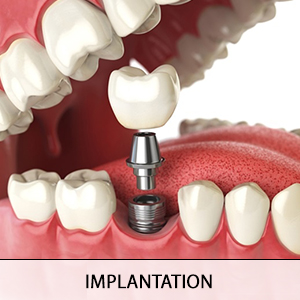
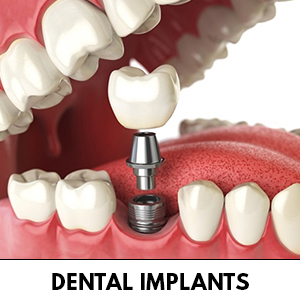
Add files via upload

Changed region(s): [[0.03, 0.84, 1.0, 1.0]]

diff --git a/index.html b/index.html
@@ -44,15 +44,15 @@
            <div class="dropdown-menu" aria-labelledby="navbarDropdown">
           <a class="dropdown-item" href="maxilofacial.html">Maxilofacial Trauma</a>
           <a class="dropdown-item" href="exclusivekidsdentistry.html">Exclusive Kids Dentistry</a>
-          <a class="dropdown-item" href="teethcleaning.html">Teeth Cleaning</a>
+          <a class="dropdown-item" href="teethcleaning.html">cosmetic Dentistry</a>
           <a class="dropdown-item" href="rct.html">RCT</a>
           <a class="dropdown-item" href="denture.html">Dentures</a>
-          <a class="dropdown-item" href="implantation.html">Implantation</a>
+          <a class="dropdown-item" href="implantation.html">Dental Implants</a>
           <a class="dropdown-item" href="toothwhitening.html">Tooth Whitening</a>
-          <a class="dropdown-item" href="orthodontic.html">Orthodontic</a>
+          <a class="dropdown-item" href="orthodontic.html">Orthodontics</a>
           <a class="dropdown-item" href="fpd&crowns.html">FPD & Crowns</a>
           <a class="dropdown-item" href="filling.html">Filling</a>
-          <a class="dropdown-item" href="cosmetic.html">Cosmetic Surgery</a>
+          <a class="dropdown-item" href="cosmetic.html">Cosmetic Plastic</a>
           <a class="dropdown-item" href="oralcanner.html">Oral Cancer</a>
         </div>
       </li>
@@ -305,7 +305,7 @@
          <img class="ft-link " src="linkedin.png" width="40" height="40" alt="logo">
 </a>
            </div>
-           <p style="color: #fff;">Salem-Mob:9626633645 | Ph:0427–4299645  | johnsdental@gmail.com | Mettur - Mob:9524533207 | Ph:04298–243645 </p>
+           <p style="color: #fff;">Salem-Mob:9626633645 | Ph:0427–4299645  | johnsdentalspeciality@gmail.com | Mettur - Mob:9524533207 | Ph:04298–243645 </p>
 
             <div class="row">
            <div class="col-12 col-sm-12 col-md-12 col-lg-12">
@@ -314,7 +314,7 @@
         </div>
                      <div class="row" style="background-color:#9a0000; " >
            <div class="col-12 col-sm-12 col-md-12 col-lg-12">
-              <a class="text-center" href="myenggcorp.tk" style="text-decoration: none; color: #fff;font-family: 'Ubuntu', sans-serif;"> Developed By My Engg Corp </a>
+              <a class="text-center" href="www.myenggcorp.tk/index.html" style="text-decoration: none; color: #fff;font-family: 'Ubuntu', sans-serif;"> Developed By My Engg Corp </a>
            </div>
         </div>
        </div>
